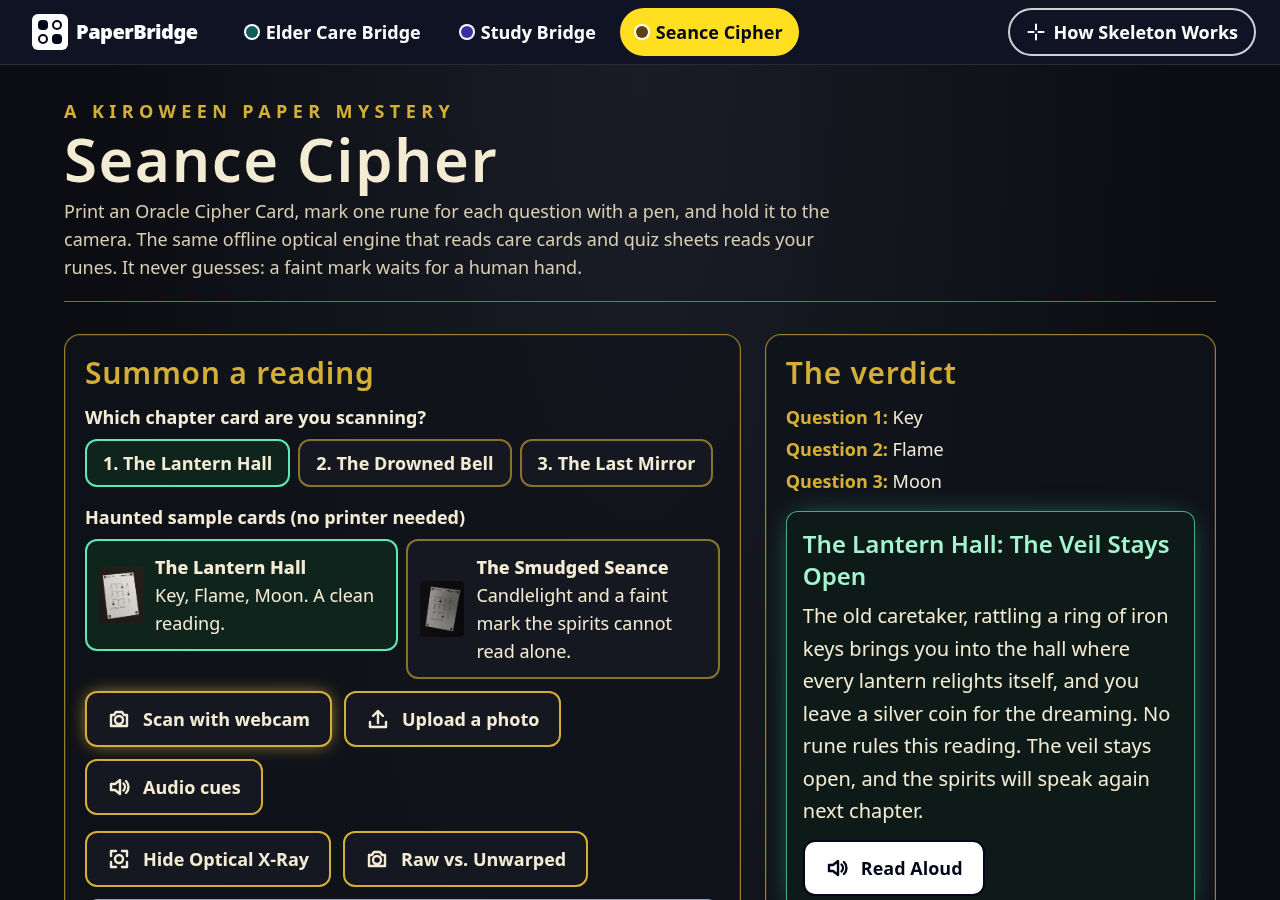
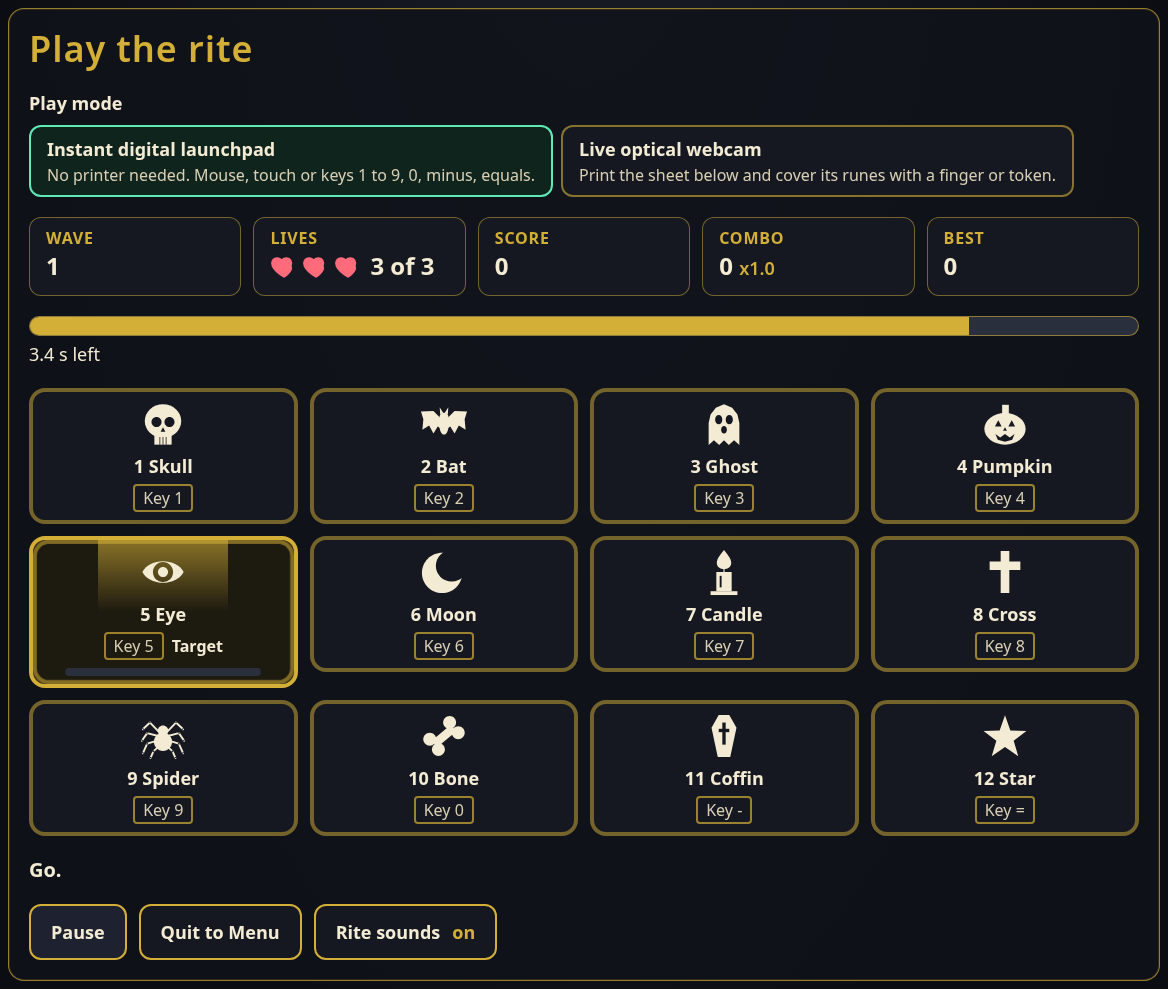
docs: X-Ray Rite showcase, rules and measured thresholds, spec R51-R55, design 22, tasks 24

Changed region(s): [[0.0, 0.0, 1.0, 1.0], [0.0, 0.0, 0.6473, 0.0622]]

diff --git a/docs/DETAILS.md b/docs/DETAILS.md
@@ -123,19 +123,33 @@ Teacher workflow:
 - **Class sheet:** enter a student's name or ID after each scan. The **Class Weak-Topic Breakdown** shows the share of students below 70% per topic.
 - **Export CSV Gradebook:** Student, Score, %, Double-Marked, Blank, Unclear, Weak Topics. Opens cleanly in Excel and Sheets, and names starting with `=` can't run as formulas.
 
-### Seance Cipher ([`src/apps/seance-cipher/`](../src/apps/seance-cipher/))
+### Seance Cipher: X-Ray Rite ([`src/apps/seance-cipher/`](../src/apps/seance-cipher/))
 
-A playful third domain that proves the skeleton is not tied to care or school. The **Oracle Cipher**
-card has 3 questions, each answered with one of 4 runes (moon, eye, key, flame), across 3 chapters
-(The Lantern Hall, The Drowned Bell, The Last Mirror). One photo gives:
+An endless survival arcade on a printed sheet. **The 12-Rune Sheet** has 12 blank white circles in 3 rows of 4. Each circle is named above (`1 Skull` to `12 Star`) and its rune is drawn below as a vector picture, so nothing but a finger or token ever touches a circle. It keeps the Oracle Cipher card's exact 12 bubble coordinates, corner markers and card ID, so photos of either print decode the same way and the two bundled sample photos still route here.
 
-- each answer as chosen, blank, double-marked or unclear; a faint rune stops the reading until a person confirms it
-- a story verdict from the majority rune (or "the veil" when no rune wins), read aloud on request
-- a short harmonic chord (A3, C4, E4, G4, Web Audio, offline) when audio cues are on
-- the current and next chapter's card to print, and readings saved to "the Grimoire" through the generic batch adapter
+**The game** (`riteEngine.ts`, pure and unit tested):
 
-Two haunted samples ship with it: The Lantern Hall (clean) and The Smudged Seance (one faint mark).
-The obsidian `#0B0D12` and brass `#D4AF37` theme passes WCAG 2.2 AA.
+| Rule | Value |
+|---|---|
+| States | `menu`, `waveIntro` (1.5 s announcement), `active`, `gameOver` |
+| Lives | 3. A missed wave costs one, breaks the combo and moves on to the next wave |
+| Wave timer | `max(1800, 4200 - 180 x wave)` ms |
+| Targets | 1 rune for waves 1 to 3, 2 for 4 to 6, 3 for 7 to 9, 4 from wave 10 |
+| Banish | cover reading of `PERFECT = 0.48` or more. Pays `round(100 x (1 + 0.15 x combo))` |
+| Trembling Hand | reading from `0.22` up to just under `0.48`. The timer drains at 60% speed (40% slower) while it lasts. The rune is cursed for the wave: its banish pays points but cannot grow the combo, and no banish grows it while another target is cursed |
+| Wave clear | bonus of 1 point per 10 ms left on the timer |
+| Camera loses the sheet | the timer waits, so a hidden card never costs a life |
+
+**Two ways to play** (`RiteGame.tsx`):
+
+- **Live optical webcam.** `riteCamera.ts` decodes a frame every 100 ms with the same optical decoder. The first frames try A4 and Letter and keep the paper whose printed rings line up (`decodeBestFit`); after that one decode per frame. The cover of a rune is the decoder's own ink density `fill` inside its bubble. A two-frame noise guard (the lower of the last two readings) stops one bad frame from banishing a rune. The overlay pulses targets in antique gold `#D4AF37`, flickers a crimson beam and dashed ring on a trembling target, and bursts emerald on a banish. The timer, the camera stream and the video are released on stop and on unmount.
+- **Instant digital launchpad.** The 12 runes as a 3 x 4 grid of buttons. Hold a pad (mouse, touch, Space or Enter) or its key (`1-9`, `0`, `-`, `=`) for 250 ms or more and it reads `1.0` (a full banish); a quick tap reads `0.35` (a trembling hand). Judges without a printer can play at once.
+
+Web Audio chords (no audio files): a major triad that climbs a semitone per combo step on a banish, a beating buzz on a tremble, a falling third when a life is lost and a low minor chord at Game Over. **Game Over** shows the frozen Optical X-Ray (the last camera frame, or the sheet on the launchpad, with the runes still standing marked in dashed crimson), the final wave, score and max combo, **Play Again** (focus moves there) and **Copy Score Receipt**. The best score is kept on the device.
+
+Real numbers from the simulated camera on the printed sheet: nothing on a circle reads 0.00; a dark token 0.94; a dark fingertip 0.78; a dark fingertip over 60% of the circle 0.53; a mid skin tone 0.45; a pale skin tone 0.30; a dark fingertip half off the circle 0.38. So the 0.48 line is met by a dark token or a pressed dark fingertip, while a pale fingertip in bright light lands in the Trembling Hand range. Real webcams are not verified.
+
+The original 3-question **Oracle Cipher** card is kept in a collapsed section: the same 12 circles and card ID, story verdicts, the faint-mark human check, and the landing place for a card routed here from Skeleton Home. The obsidian `#0B0D12` and brass `#D4AF37` theme passes WCAG 2.2 AA.
 
 ### Kiro Crew App (`crew-app/`)
 
@@ -237,6 +251,12 @@ them. They found these bugs before any human saw a wrong answer:
 | Crew bundle smoke test | Two React copies (the UI package installed `react`), so hooks crashed | Types only in `crew-app/ui`; React comes from the host |
 | Batch test across paper sizes (5 samples x 5 cameras x 2 papers) | Every scan path tried A4 first and accepted it, so **Letter prints were read with A4 bubble positions**: 1 to 7 extra unclear marks, sometimes different readings | Decode every paper size and keep the best fit (fewest unclear marks, then highest confidence): 50 of 50 correct |
 | Keyboard audit | The skip link set `#main`, which switched Study Bridge back to Elder Care | Move focus without changing the hash |
+| Bundle size check on X-Ray Rite | Importing `pdf-lib` at the top of the sheet module pulled it into the first load (454 KB to 915 KB) | Import it on demand inside `riteSheetPdf`, like the core's PDF code: 495 KB, `pdf-lib` lazy again |
+| Real-browser look at a lit pad | The pulse faded the whole button, so the rune name dropped below AA contrast at the dim point | Pulse a separate glow ring; the button never fades |
+| axe-core on the launchpad | `label-content-name-mismatch` on all 12 pads: the aria-label did not contain the visible "1 Skull" | No aria-label; the visible words are the name |
+| Screenshot of a lit Moon pad | The crescent's cut-out was painted in the pad colour and showed as a dark disc over the gold beam | Draw each rune through an SVG mask, so cut-outs are real holes |
+| Keyboard audit on the print panel | The page's yellow focus ring vanished on parchment | Parchment panels set a dark ring for their controls |
+| Unit test of the Trembling Hand | A 0.3 reading put on a rune that happened to be a target slowed the timer, so "time ran out" never fired | Test readings go on a rune that is not lit (the engine is right: a tremble slows the timer) |
 | Seance sample x 7 cameras x 2 papers | An A4 smudged Seance card read with the Letter layout showed 0 unclear marks (misplaced samples landed on blank paper), so "fewest unclear" picked the wrong paper | Score how dark each bubble's printed ring is through the homography and prefer the paper whose rings line up; on 98 photos the printed paper always wins, by at least 0.835 |
 
 The tests also caught a mistake in our own expectations: we expected Sam's quiz to score
@@ -310,7 +330,7 @@ src/shell/             shared UI: launcher bar, optical primitives + useOpticalS
 src/apps/elder-care/   layout, interpret, card settings (anchors, cues, High-Visibility, icons), i18n packs, adaptive card, presets, monthly pack,
                        patterns, history, sample history, Doctor Visit PDF, batch adapter, CareDashboard
 src/apps/study-bridge/ layout, answer key, grade, class sheet + CSV, due review sheet, batch adapter, StudyResults, Studio (telemetry, topic mastery)
-src/apps/seance-cipher/ layout (3 chapters), oracle (story verdicts), theme, samples
+src/apps/seance-cipher/ layout (3 chapters + the 12-Rune Sheet), oracle (story verdicts), riteEngine (pure game), riteCamera, riteSheet + runeGlyphs, RiteGame/RitePads/RiteLive/RiteReceipt, riteAudio, theme, samples
 src/__tests__/         integration tests: shipped app layouts against the core Layout Validator
 scripts/               gen-samples.ts, create-app.mjs, gen-icons.ts, hooks/ (Kiro hook scripts)
 mcp/                   Layout Validator MCP server (validate_card_layout, list_registered_apps)
@@ -325,7 +345,7 @@ docs/                  BUILD-YOUR-OWN-APP.md, screenshots
 | Command | What it does |
 |---|---|
 | `npm run dev` | Start the app |
-| `npm test` | 365 tests: property tests, end-to-end sample decodes, interpreters, overrides, history, CSV, layout validator, scaffolder, MCP tools, auto-routing and batch scan, 50-photo paper-size matrix, monthly pack, presets, adaptive cards, language packs and icons, stress lab, tabs, hooks, Optical X-Ray, audio and speech controls, generic batch save, Instant Demo scenarios, decode pipeline, Raw vs. Unwarped, accents and the architecture dialog, shared print and packs in every app, Skeleton Home and the launcher, Seance Cipher layout and verdicts, auto-route across 3 apps, frontend keyboard markup, Crew App contract, cardLanguage and bundle |
+| `npm test` | 444 tests: property tests, end-to-end sample decodes, interpreters, overrides, history, CSV, layout validator, scaffolder, MCP tools, auto-routing and batch scan, 50-photo paper-size matrix, monthly pack, presets, adaptive cards, language packs and icons, stress lab, tabs, hooks, Optical X-Ray, audio and speech controls, generic batch save, Instant Demo scenarios, decode pipeline, Raw vs. Unwarped, accents and the architecture dialog, shared print and packs in every app, Skeleton Home and the launcher, Seance Cipher layout and verdicts, the X-Ray Rite engine, sheet, camera loop, audio and page, auto-route across 3 apps, frontend keyboard markup, Crew App contract, cardLanguage and bundle |
 | `npm run typecheck` | `tsc --noEmit` |
 | `npm run build` | Production build plus service worker and `manifest.webmanifest` (pdf-lib loads only when printing) |
 | `npm run gen:samples` | Regenerate every app's sample photos (deterministic, byte-identical) |

diff --git a/README.md b/README.md
@@ -25,24 +25,39 @@ All three are built from the same `src/core/` engine and the same `src/shell/` p
   <tr>
     <th width="33%"><a href="src/apps/elder-care/">Elder Care Bridge</a><br>Warm Clinical Stationery</th>
     <th width="33%"><a href="src/apps/study-bridge/">Study Bridge</a><br>Live Classroom Studio</th>
-    <th width="33%"><a href="src/apps/seance-cipher/">Seance Cipher</a><br>Obsidian and brass</th>
+    <th width="33%"><a href="src/apps/seance-cipher/">Seance Cipher</a><br>X-Ray Rite, obsidian arcade</th>
   </tr>
   <tr>
     <td><img src="docs/images/frontend-elder.png" alt="Elder Care Bridge: ivory page with teal hairlines, the card with its Optical X-Ray on the left, adherence status and a Human verified stamp on the right"></td>
     <td><img src="docs/images/frontend-study.png" alt="Study Bridge: indigo banner, bold telemetry for score and decode time, horizontal topic-mastery bars"></td>
-    <td><img src="docs/images/frontend-seance.png" alt="Seance Cipher: obsidian page with brass hairlines, a glowing X-Ray over the Oracle Cipher card and the story verdict"></td>
+    <td><img src="docs/images/frontend-seance.png" alt="X-Ray Rite: the 12-rune launchpad with one rune lit in gold, a wave timer, 3 lives, score and combo"></td>
   </tr>
   <tr>
     <td>Ivory and teal, AAA contrast. Two columns: card, X-Ray and Raw vs. Unwarped on the left; adherence, a 1-click <b>Human Verified</b> stamp, Read Aloud, WhatsApp update, Doctor Visit PDF and icon cards in 4 languages on the right. Presets sit in an accordion.</td>
     <td>Slate, indigo and emerald with <code>tabular-nums</code> telemetry. Live Scan, Print Studio and Gradebook tabs: topic-mastery bars, a batch gradebook, the Due Review Card and a multi-week quiz pack in Telugu and Hindi.</td>
-    <td>Serif headings, a laser scan sweep and a glowing emerald and amber X-Ray. The Oracle Cipher card has 3 questions of 4 runes; decoding reveals a story verdict, plays a harmonic chord (with audio cues on) and offers the next chapter to print.</td>
+    <td><b>X-Ray Rite: The Endless Obsidian Seance.</b> An endless survival arcade on a printed 12-rune sheet. Runes light up in waves; cover one with a finger or token before the timer ends. A shaky half cover is a Trembling Hand. No printer? Play on the digital launchpad.</td>
   </tr>
 </table>
+
+### X-Ray Rite: The Endless Obsidian Seance
+
+Seance Cipher is now an endless survival game on the same optical engine. Print the 12-Rune Sheet (12 blank white circles, each with a spooky rune: Skull, Bat, Ghost, Pumpkin, Eye, Moon, Candle, Cross, Spider, Bone, Coffin, Star) or use the digital launchpad.
+
+<table>
+  <tr>
+    <td width="50%"><img src="docs/images/xray-rite-live.png" alt="Live webcam mode: a photographed 12-rune sheet with one rune ringed in dashed crimson, its cover reading 0.40, and a crimson timer bar"></td>
+    <td width="50%"><img src="docs/images/xray-rite-sheet.png" alt="The printable X-Ray Rite 12-Rune Sheet: 12 blank circles in 3 rows of 4, each named above and drawn below"></td>
+  </tr>
+</table>
+
+- A cover reading of **0.48 or more** banishes a rune and grows the combo (multiplier 1 + 0.15 per step). **0.22 to 0.47** is the **Trembling Hand**: the timer drains 40% slower, but combo growth is locked until the rune is fully covered.
+- 3 lives. Each wave is faster (`max(1800, 4200 - 180 x wave)` ms) and lights 1 to 4 runes. Game Over gives a frozen X-Ray frame and a copyable score receipt.
+- Honest limit: a dark token or fingertip reads 0.78 or more, but a pale fingertip in bright light can read only 0.30 to 0.45, so it trembles. The thresholds are constants in `riteEngine.ts`. Real webcams are not tuned yet.
 
 ### Try it in 60 seconds (no printer needed)
 
 1. Open the [live demo](https://paperbridge-acvw.onrender.com/). On **Skeleton Home**, click **Run Mixed-Domain Auto-Route Demo**: one real card from each app is unwarped, X-Rayed and routed to its own app.
-2. Click **Seance Cipher** in the launcher, then the sample **The Smudged Seance**. One faint rune goes to you: press **Mark filled** and the spirits give their verdict.
+2. Click **Seance Cipher**, then **Start the Rite**. Hold a lit rune's pad (or its key) to banish it, or tap it to feel the Trembling Hand. Let the timer run out three times for the Game Over receipt with its frozen X-Ray.
 3. Open **Elder Care Bridge**, load a sample and stamp the amber mark **Human Verified**, then print the adapted next-week card.
 4. Open **Study Bridge**, scan a quiz, then **Print Studio** for the Telugu or Hindi sheet and the quiz pack.
 
@@ -52,7 +67,7 @@ All three are built from the same `src/core/` engine and the same `src/shell/` p
 
 | Kiro feature | Where | What it does here |
 |---|---|---|
-| **Spec-driven development** | [`.kiro/specs/paperbridge/`](.kiro/specs/paperbridge/) | EARS [requirements](.kiro/specs/paperbridge/requirements.md) R1-R50, [design](.kiro/specs/paperbridge/design.md) decisions with measured numbers, and [tasks](.kiro/specs/paperbridge/tasks.md) 1-23, one task group per commit |
+| **Spec-driven development** | [`.kiro/specs/paperbridge/`](.kiro/specs/paperbridge/) | EARS [requirements](.kiro/specs/paperbridge/requirements.md) R1-R55, [design](.kiro/specs/paperbridge/design.md) decisions with measured numbers, and [tasks](.kiro/specs/paperbridge/tasks.md) 1-24, one task group per commit |
 | **Steering** | [`.kiro/steering/`](.kiro/steering/) | Always-on product rules, a `src/core/**` rule for the deterministic decoder, a `src/apps/**` rule for accessible thin apps |
 | **Agent hooks** | [`.kiro/hooks/`](.kiro/hooks/) | 5 hooks of 3 kinds: tests, sample regeneration and typecheck on save; a `PreToolUse` guard on the protected decoder; a `Stop` check for core boundaries and WCAG |
 | **MCP server** | [`mcp/`](mcp/) | Layout Validator: `validate_card_layout` and `list_registered_apps`, so Kiro checks a card before anyone prints it |

diff --git a/.kiro/specs/paperbridge/design.md b/.kiro/specs/paperbridge/design.md
@@ -214,3 +214,13 @@ Verified against the Crew docs and the KiroCrew sources (`website/src/app-sdk/in
 - **Colour.** Elder Care uses #0F766E only for hairlines and #134E4A for text and buttons, since #0F766E on ivory is below 7:1. Seance text is parchment on obsidian; brass text uses #5b4310 on light backgrounds.
 - **Seance Cipher.** idCode 465 (Elder Care 89, Study Bridge 593). Rows hidden, 4 columns 36 mm apart with radius 7 mm and rune icons, so it prints large. `fateOf` takes the majority rune, else "veil". The chord is A3, C4, E4, G4 triangle waves over 1.8 s on the shared AudioContext. New icons (eye, key, flame) were added to `src/core/render/icons.ts`, outside the protected paths.
 - **Paper-fit bug.** The A4 smudged Seance card decoded with the Letter layout read 1 filled and 0 unclear: misplaced sample points fell on blank paper and read clean, so "fewest unclear" picked Letter. `ringAlignment` in `src/shell/route.ts` reads, through the decoder's homography, how much darker each bubble's printed ring is than the paper just outside it (16 angles, the darkest of 3 radii). The paper with the higher score wins when the gap exceeds `RING_TIE` (0.1); otherwise the old rule applies. Across 98 photos (every sample x cameras x both papers) the printed paper always wins, with a smallest gap of 0.835. The decoder is untouched.
+
+## 22. Phase 11: X-Ray Rite
+- **One layout, two faces.** `baseGroup(i)` holds the 12 bubbles; the Oracle card and the Rite sheet both spread it, so the coordinates cannot drift. The Rite sheet only changes titles, labels and the footer. `SEANCE_RITE_LAYOUTS` sorts after `SEANCE_LAYOUTS`, so the MCP validator still reports the Oracle card first. The decoder is unchanged.
+- **Pictures outside the bubbles.** The core has 8 icons and cannot be edited, so `riteSheet.ts` draws 12 more as filled paths (`runeGlyphs.ts`) under each bubble, in the SVG and, after loading the core's PDF, with `drawSvgPath` exactly as the core draws its own icons. The core's PDF is loaded with `updateMetadata: false` so equal sheets give equal bytes. Pictures sit below the bubbles because the space above holds the title and labels. A test checks every picture against the bubbles, markers, ID strip, text and each other, on both papers. A decode of the photographed sheet reads all 12 centres at 0.00.
+- **The engine is a function.** `tick(state, dtMs, coverage)` takes 12 readings (or null for "sheet not in view") and returns the next state plus `events` for sound and announcements. The seeded generator makes games replayable. Lock semantics: a tremble marks the rune cursed for the wave (sticky), the timer slowdown follows the current reading, and a clean banish waits while any other target is cursed. A tremble alone never costs the combo. A missed wave advances the wave, so difficulty keeps rising.
+- **Thresholds against the real decoder.** Through the simulated camera: empty circle 0.00, dark token 0.94, dark fingertip 0.78, 60% cover 0.53, mid skin 0.45, pale skin 0.30, half-off-circle 0.38. PERFECT = 0.48 is therefore met by a dark token or a pressed dark fingertip; a pale fingertip in bright light trembles. The values are named constants. Real webcams are not verified.
+- **Why not `startWebcamScan`.** It decodes with one fixed layout, but the paper size is not known in advance, and a wrong size misplaces the bubbles (the Phase 10 bug). `riteCamera.ts` is a self-scheduling timer (no overlapping decodes) that runs `decodeBestFit` until a frame decodes, then locks that paper, and unlocks after 20 failed frames. A two-frame minimum (`confirmCoverage`) means one noisy frame cannot banish.
+- **Game clock.** One `requestAnimationFrame` chain ticks the engine about 30 times a second, with a 100 ms cap per step, and is cancelled on pause, on phase change and on unmount. The launchpad hold rule (250 ms, then 1.0; a shorter press leaves a 0.35 pulse) is in the pure `padPress`/`padRelease`/`padCoverage`.
+- **Look.** Animations live in a scoped `<style>` (global CSS is off limits): the pulse is on a separate glow ring so a button's text never fades, the flicker has 2 dips per 1.2 s, and reduced motion disables all of it. Rune pictures are drawn through an SVG mask so cut-outs are real holes.
+- **Kept, not replaced.** The Oracle reading stays in a collapsed section because Skeleton Home's "Open in Seance Cipher" hands a scan to `useOpticalScan` there, and the shell tests assert that panel.

diff --git a/.kiro/specs/paperbridge/requirements.md b/.kiro/specs/paperbridge/requirements.md
@@ -285,3 +285,23 @@ PaperBridge turns a printed bubble card into structured data using deterministic
 3. THE theme SHALL be obsidian (#0B0D12) with brass (#D4AF37) hairlines, serif headings, a laser sweep that respects reduced motion and a glowing X-Ray, at WCAG AA.
 4. Scan Any Card SHALL route Elder Care, Study Bridge and Seance Cipher cards, on A4 and Letter, in one batch.
 5. WHEN choosing between paper sizes, THE shell SHALL prefer the size whose printed bubble rings line up with the photo, falling back to fewest unclear marks when the ring scores are close. No file in `src/core/decode/`, `src/core/layout.ts` or `src/core/capture/` SHALL change.
+
+## R51. X-Ray Rite 12-Rune Sheet (Phase 11)
+1. THE app SHALL offer a printable 1-page **X-Ray Rite 12-Rune Sheet** on A4 and US Letter with the same card ID and version, the same 12 bubble coordinates, corner markers and ID strip as the Oracle Cipher card, so every earlier printout and sample photo still decodes and routes to Seance Cipher.
+2. THE sheet SHALL name the 12 runes in order (1 Skull, 2 Bat, 3 Ghost, 4 Pumpkin, 5 Eye, 6 Moon, 7 Candle, 8 Cross, 9 Spider, 10 Bone, 11 Coffin, 12 Star) above their bubbles and draw each as a vector picture below its bubble. Every bubble centre SHALL stay blank white, and no picture SHALL touch a bubble, a corner marker, the ID strip, printed text or another picture. The sheet SHALL pass the Layout Validator and download as PDF and SVG.
+
+## R52. Endless wave engine (Phase 11)
+1. THE game rules SHALL be pure state transitions (`menu`, `waveIntro`, `active`, `gameOver`) with `wave`, `lives` (3), `score`, `combo`, `maxCombo` and `multiplier` (`1 + combo * 0.15`). The wave timer SHALL be `max(1800, 4200 - wave * 180)` ms, and a wave SHALL light 1 to 4 runes (1 for waves 1 to 3, one more every 3 waves).
+2. A cover reading of 0.48 or more SHALL banish a rune, pay `round(100 * multiplier)` and grow the combo. A reading from 0.22 up to just under 0.48 SHALL be the Trembling Hand: the timer SHALL drain 40% slower while it lasts, and that rune SHALL be cursed for the wave, so its banish pays points but does not grow the combo, and no banish grows the combo while another target is cursed.
+3. WHEN the timer runs out THE game SHALL cost a life, break the combo and start the next wave; at 0 lives it SHALL end. WHEN the camera cannot see the sheet THE timer SHALL wait.
+
+## R53. Two play modes (Phase 11)
+1. **Live optical webcam**: THE app SHALL decode camera frames continuously with the optical decoder, choose the paper size by printed-ring fit, read each rune's cover as the decoder's ink density, and require two agreeing frames before a cover counts. It SHALL highlight targets in pulsing antique gold (#D4AF37), flicker a crimson beam on a trembling target, and play Web Audio chords on a banish and on a tremble. Its timer and camera SHALL be released on stop and on unmount.
+2. **Instant digital launchpad**: THE app SHALL show a 3 x 4 grid of the 12 runes driven by mouse, touch and the keys 1-9, 0, minus and equals. Holding a pad for 250 ms or more SHALL read 1.0; a quick tap SHALL read 0.35.
+
+## R54. Game Over receipt (Phase 11)
+1. WHEN the game ends THE app SHALL show the frozen Optical X-Ray (the last camera frame, or the sheet on the launchpad, with runes still lit marked), the final wave, score and max combo, a **Play Again** button that takes focus, and a **Copy Score Receipt** button that copies plain text. The best score SHALL be kept on the device.
+
+## R55. Accessibility and protected code (Phase 11)
+1. Text SHALL meet WCAG 2.2 AA contrast, every control SHALL show the 4 px focus ring, every button's accessible name SHALL contain its visible words, flicker SHALL stay under 3 flashes a second and every animation SHALL stop for reduced motion. State SHALL never rely on colour alone, and the game SHALL be pausable and announce events in a polite status line.
+2. THE change SHALL leave `src/core/`, `src/shell/`, `src/apps/elder-care/` and `src/apps/study-bridge/` unchanged, keep `pdf-lib` out of the initial bundle, and use no em dashes in UI copy or markdown.

diff --git a/.kiro/specs/paperbridge/tasks.md b/.kiro/specs/paperbridge/tasks.md
@@ -154,3 +154,11 @@ Requirement references use the numbering in `requirements.md`.
   - [x] 23.5 Seance Cipher layout, oracle, samples, page and harmonic chord _(R50.1-R50.3)_
   - [x] 23.6 Tests (Seance layout and verdicts, 3-app auto-route and batch, paper fit, launcher, keyboard markup), browser checks, axe-core 0 AA on 5 states (Elder Care AAA 0) _(R50.4, R9.2)_
   - [x] 23.7 README showcase of 3 frontends, DETAILS, developer guide
+
+- [x] 24. Phase 11: X-Ray Rite (branch `feat/xray-rite-endless-arcade`)
+  - [x] 24.1 `riteEngine.ts` (pure wave game, launchpad input, noise guard, receipt) and `riteVision.ts` (cover readings from a decode) _(R52)_
+  - [x] 24.2 `layout.ts` Rite sheet on the shared bubble geometry; `runeGlyphs.ts`, `riteSheet.ts` (SVG, PDF, frozen X-Ray), `RitePrint.tsx` _(R51)_
+  - [x] 24.3 `riteCamera.ts`, `riteAudio.ts`, `RiteGame.tsx`, `RitePads.tsx`, `RiteLive.tsx`, `RiteReceipt.tsx`; `App.tsx` keeps the Oracle reading collapsed _(R53, R54)_
+  - [x] 24.4 Tests: engine, sheet and camera readings, page markup and handlers, audio, the camera loop in Node _(R51-R55)_
+  - [x] 24.5 Browser checks: both modes to Game Over, keyboard, axe-core 0 AA on 6 states, 4 px rings, reduced motion, 390 px width, camera released on leave _(R55)_
+  - [x] 24.6 README showcase, DETAILS, developer guide _(R55.2)_

diff --git a/docs/BUILD-YOUR-OWN-APP.md b/docs/BUILD-YOUR-OWN-APP.md
@@ -109,7 +109,7 @@ generated test fails if any is broken:
 
 - [`src/apps/elder-care/`](../src/apps/elder-care/): weekly medication card, caregiver dashboard, history, Kiro Crew alerts, and customizable printed labels (`card-settings.ts`).
 - [`src/apps/study-bridge/`](../src/apps/study-bridge/): 10-question quiz sheet, editable answer key, class gradebook, and CSV export.
-- [`src/apps/seance-cipher/`](../src/apps/seance-cipher/): a 3-question rune card with chapters, story verdicts and a harmonic chord, the smallest full-screen frontend.
+- [`src/apps/seance-cipher/`](../src/apps/seance-cipher/): X-Ray Rite, an endless arcade game on a 12-circle sheet. It shows that a bubble's ink density (`fill`) is an analog input, not only filled or blank: `riteEngine.ts` is a pure state machine you can copy, `riteCamera.ts` is a live frame loop, and `riteSheet.ts` adds your own vector pictures to a printed card without touching the bubbles. The original 3-question Oracle Cipher card is kept inside it.
 
 ## Check a layout from Kiro
 
